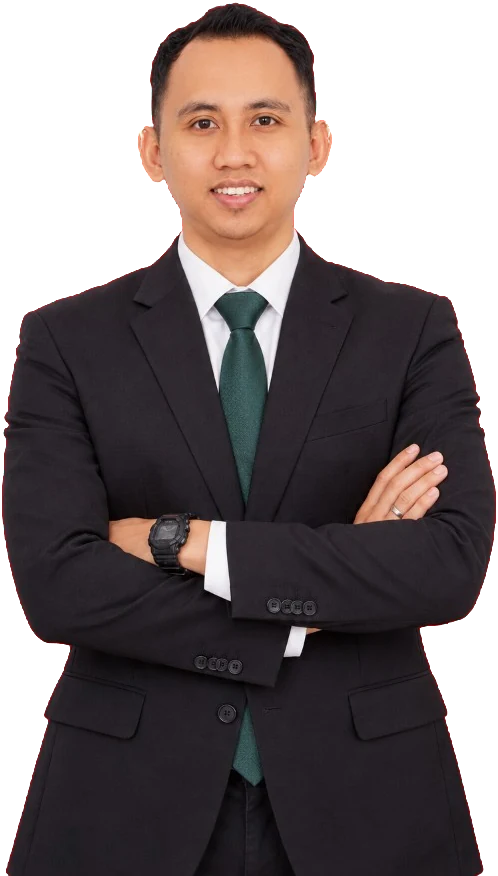
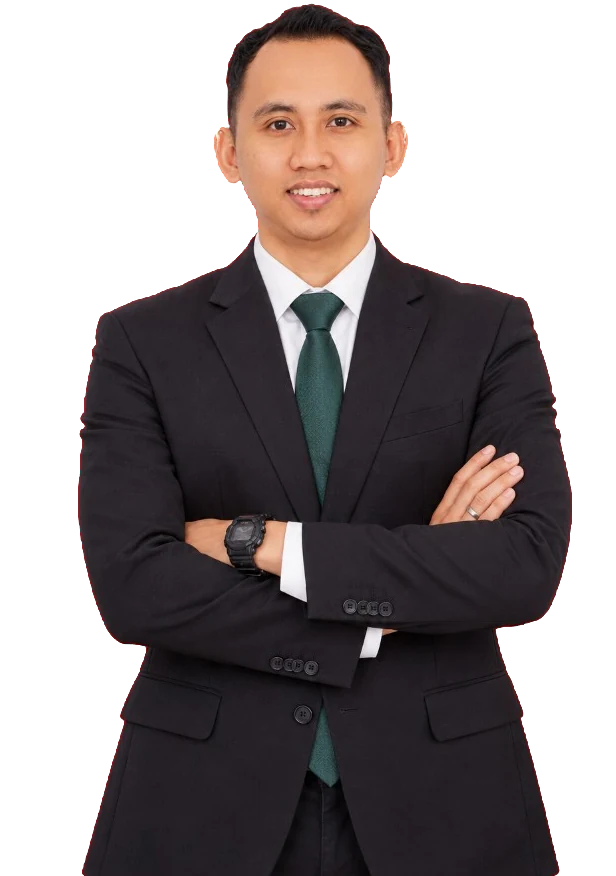
Potret berganti pose menunjuk ke panel yang disorot
Pose menunjuk dipakai saat salah satu panel di-hover, dicerminkan untuk panel kiri. Kedua pose dirender ulang ke satu kanvas yang simetris terhadap kepala, supaya pergantian maupun pencerminan tidak menggeser wajah. Syarat tersambung-ke-tepi pada chroma-key dilepas karena celah merah antara lengan dan badan justru terkurung di dalam siluet.

diff --git a/css/site.css b/css/site.css
@@ -277,7 +277,7 @@ body[data-world="system"] .topbar button[aria-current="page"] {
    dikurung di koridor antara kedua blok teks: saat panel di-hover garisnya
    melesat sampai 69% dan potretnya akan menabrak paragraf di seberang. */
 .portrait {
-  --pw: min(21vh, calc(100vw - 864px));
+  --pw: min(26vh, calc(100vw - 864px));
   --travel: max(0px, calc(50vw - 408px - var(--pw) / 2 - 18px));
   position: absolute;
   z-index: 3;
@@ -285,19 +285,32 @@ body[data-world="system"] .topbar button[aria-current="page"] {
   left: clamp(calc(50% - var(--travel)), var(--split), calc(50% + var(--travel)));
   transform: translateX(-50%);
   width: var(--pw);
+  aspect-ratio: 616 / 876;
   pointer-events: none;
 }
 
+/* Kedua pose ditumpuk pada kotak yang sama; keduanya dirender di atas kanvas
+   yang simetris terhadap kepala, jadi pergantian dan pencerminan tidak
+   menggeser wajah sedikit pun. */
 .portrait img {
-  display: block;
+  position: absolute;
+  inset: 0;
   width: 100%;
-  height: auto;
+  height: 100%;
+  object-fit: contain;
   /* Jas hitam nyaris lenyap di paruh gelap, jadi siluetnya diberi tepi tipis. */
   filter: drop-shadow(0 0 2px rgba(244, 239, 232, 0.5)) drop-shadow(0 16px 28px rgba(7, 6, 12, 0.3));
+  transition: opacity 0.2s ease;
 }
 
+/* Saat satu panel disorot, ia berganti pose dan menunjuk ke panel tersebut. */
+.portrait-point { opacity: 0; }
+.threshold:has(.pane:hover) .portrait-rest { opacity: 0; }
+.threshold:has(.pane:hover) .portrait-point { opacity: 1; }
+.threshold:has(.pane-game:hover) .portrait-point { transform: scaleX(-1); }
+
 /* Koridor tengah terlalu sempit untuk potret pada laptop kecil. */
-@media (min-width: 861px) and (max-width: 979px) {
+@media (min-width: 861px) and (max-width: 1099px) {
   .portrait { display: none; }
 }
 
@@ -1056,11 +1069,18 @@ dialog[data-game="offroad"] .pad [data-hold="right"] {
     position: static;
     grid-row: 2;
     width: 100%;
+    aspect-ratio: auto;
     transform: none;
     background: #100e16;
   }
+  /* Tanpa kursor tidak ada yang bisa disorot, jadi pose menunjuk tak dipakai. */
+  .portrait-point { display: none; }
   .portrait img {
-    width: min(58vw, 215px);
+    position: static;
+    /* block, bukan inline: margin auto tidak memusatkan elemen inline. */
+    display: block;
+    width: min(58vw, 250px);
+    height: auto;
     margin-inline: auto;
     filter: none;
     /* Di layar lebar potretnya habis di lipatan halaman; di sini ia berhenti

diff --git a/index.html b/index.html
@@ -13,7 +13,7 @@
   <link rel="preconnect" href="https://fonts.googleapis.com">
   <link rel="preconnect" href="https://fonts.gstatic.com" crossorigin>
   <link href="https://fonts.googleapis.com/css2?family=Fraunces:ital,opsz,wght@0,9..144,500;0,9..144,620;1,9..144,500&family=Outfit:wght@300;400;500;600&family=Public+Sans:ital,wght@0,400;0,500;0,600;1,400&family=Syne:wght@500;600;700;800&display=swap" rel="stylesheet">
-  <link rel="stylesheet" href="css/site.css?v=20261001">
+  <link rel="stylesheet" href="css/site.css?v=20261001b">
   <script type="application/ld+json">
   {
     "@context": "https://schema.org",
@@ -107,7 +107,8 @@
       </div>
 
       <div class="portrait">
-        <img src="img/muhamad-yusuf.webp?v=20261001" width="498" height="876" alt="Potret Muhamad Yusuf, S.Kom" decoding="async">
+        <img class="portrait-rest" src="img/muhamad-yusuf.webp?v=20261001b" width="616" height="876" alt="Potret Muhamad Yusuf, S.Kom" decoding="async">
+        <img class="portrait-point" src="img/muhamad-yusuf-menunjuk.webp?v=20261001b" width="616" height="876" alt="" aria-hidden="true" decoding="async">
       </div>
     </section>
 
@@ -435,6 +436,6 @@
     <p class="noscript">Situs ini membutuhkan JavaScript untuk berpindah dunia dan memainkan prototipe.</p>
   </noscript>
 
-  <script type="module" src="js/main.js?v=20261001"></script>
+  <script type="module" src="js/main.js?v=20261001b"></script>
 </body>
 </html>

diff --git a/js/main.js b/js/main.js
@@ -1,6 +1,6 @@
 // Versi di URL harus sama dengan yang di index.html: query pada <script> tidak
 // menurun ke modul yang di-import, jadi arcade.js perlu nomornya sendiri.
-import { initArcade } from "./arcade.js?v=20261001";
+import { initArcade } from "./arcade.js?v=20261001b";
 
 const arcade = initArcade();
 const threshold = document.querySelector(".threshold");
